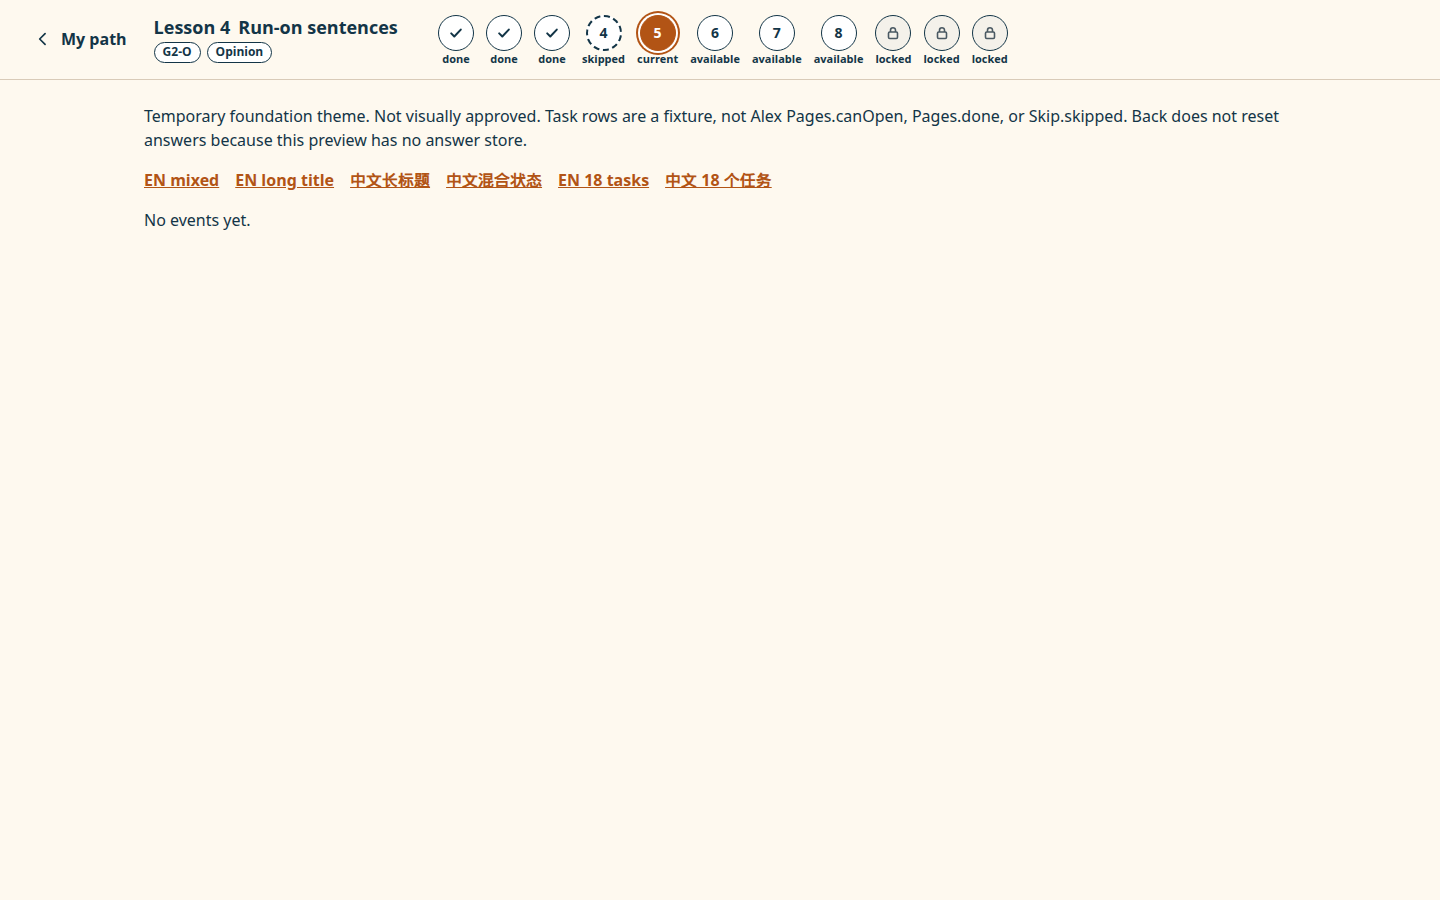
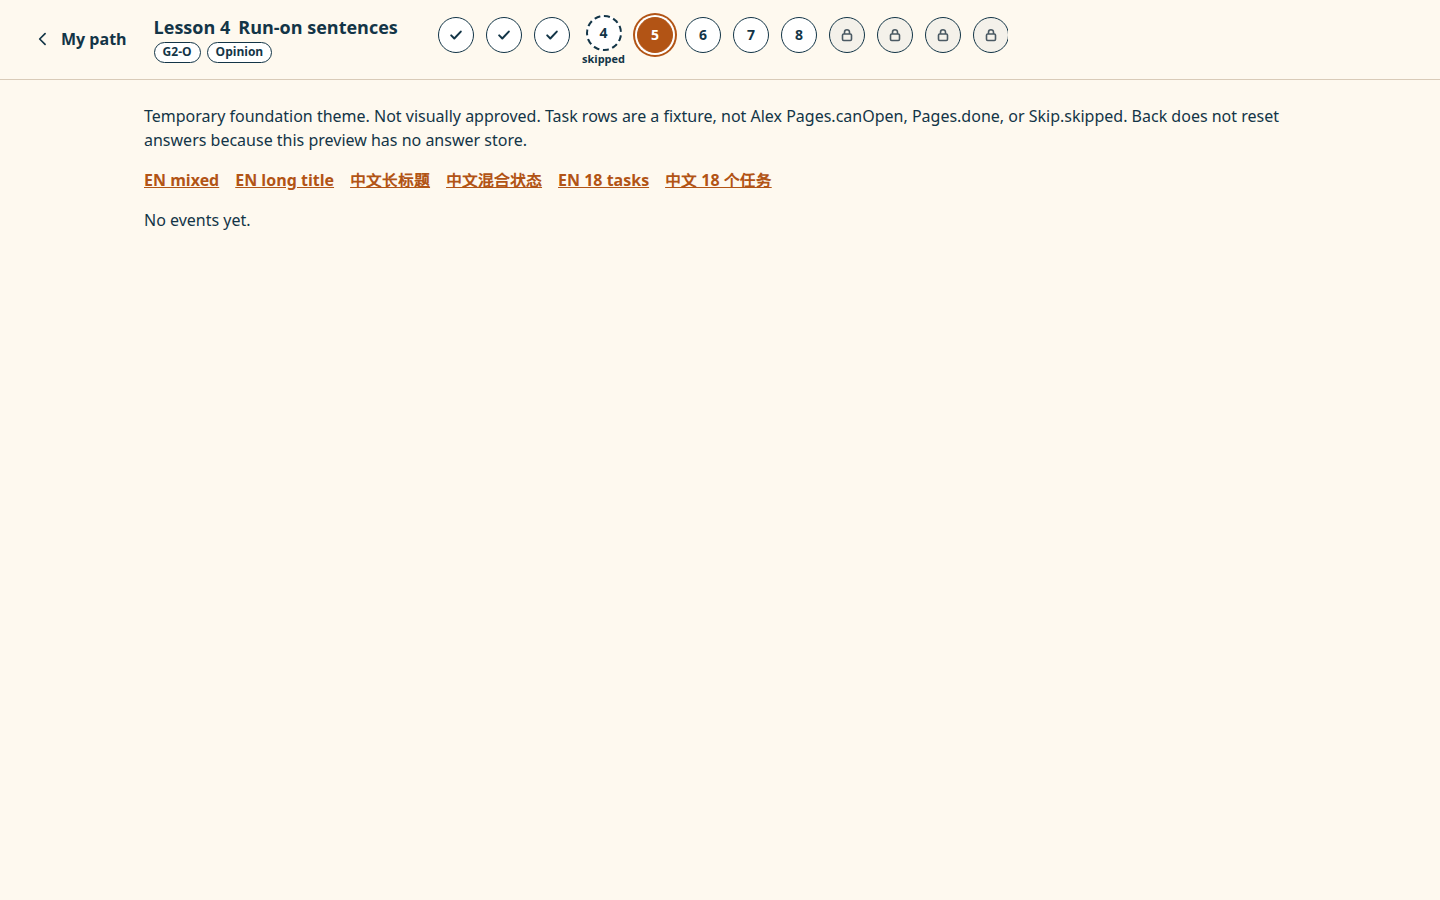
fix(writing): show a status caption on skipped chips only
Remove the word under done, current, available, and locked tasks so the centered progress group stays compact. Skipped keeps a dashed circle, its number, and skipped / 已跳过.

Changed region(s): [[0.4375, 0.0, 0.7188, 0.0933], [0.3125, 0.0311, 0.4062, 0.0933]]

diff --git a/packages/design-system/src/components/ui/BATaskProgress.test.tsx b/packages/design-system/src/components/ui/BATaskProgress.test.tsx
@@ -34,6 +34,11 @@ describe('BATaskProgress', () => {
     expect(screen.getByRole('button', { name: 'Task 4: Build a topic sentence, available' })).toBeEnabled();
     expect(screen.getByRole('button', { name: 'Task 5: Check, locked' })).toBeDisabled();
     expect(screen.getByRole('button', { name: /skipped/ })).not.toHaveAccessibleName(/done/);
+    expect(screen.getByText('skipped')).toBeVisible();
+    expect(screen.queryByText('done', { selector: '.ba-task-progress__caption' })).not.toBeInTheDocument();
+    expect(screen.queryByText('current', { selector: '.ba-task-progress__caption' })).not.toBeInTheDocument();
+    expect(screen.queryByText('available', { selector: '.ba-task-progress__caption' })).not.toBeInTheDocument();
+    expect(screen.queryByText('locked', { selector: '.ba-task-progress__caption' })).not.toBeInTheDocument();
   });
 
   it('names every state in Chinese', () => {
@@ -47,6 +52,11 @@ describe('BATaskProgress', () => {
       'step',
     );
     expect(screen.getByRole('button', { name: '任务 5：小测，未解锁' })).toBeDisabled();
+    expect(screen.getByText('已跳过')).toBeVisible();
+    expect(screen.queryByText('已完成', { selector: '.ba-task-progress__caption' })).not.toBeInTheDocument();
+    expect(screen.queryByText('当前', { selector: '.ba-task-progress__caption' })).not.toBeInTheDocument();
+    expect(screen.queryByText('可进入', { selector: '.ba-task-progress__caption' })).not.toBeInTheDocument();
+    expect(screen.queryByText('未解锁', { selector: '.ba-task-progress__caption' })).not.toBeInTheDocument();
   });
 
   it('navigates only when the row is not locked and canOpen allows it', async () => {

diff --git a/packages/design-system/src/components/ui/BATaskProgress.tsx b/packages/design-system/src/components/ui/BATaskProgress.tsx
@@ -85,9 +85,9 @@ export function BATaskProgress({
                   <span className="ba-task-progress__marker" aria-hidden="true">
                     <Marker status={task.status} number={number} />
                   </span>
-                  <span className="ba-task-progress__caption" aria-hidden="true">
-                    {statusWord}
-                  </span>
+                  {task.status === 'skipped' ? (
+                    <span className="ba-task-progress__caption">{statusWord}</span>
+                  ) : null}
                 </Button>
               </li>
             );

diff --git a/packages/design-system/src/components/ui/BATaskProgress.css b/packages/design-system/src/components/ui/BATaskProgress.css
@@ -69,11 +69,11 @@
 }
 
 .ba-task-progress__caption {
-  min-height: 13px;
   font-size: 11px;
   font-weight: 700;
   line-height: 1.1;
   letter-spacing: 0;
+  white-space: nowrap;
 }
 
 .ba-task-progress__button[data-state='done'] .ba-task-progress__marker {

diff --git a/apps/writing/docs/PILOT_RUNTIME.md b/apps/writing/docs/PILOT_RUNTIME.md
@@ -25,13 +25,15 @@ Progress group center versus the header center. Negative overlap means the left 
 
 | Viewport | Fixture | Center delta | Overlap | Back height | Task control height |
 |---|---|---:|---:|---:|---:|
-| 1440×900 | EN mixed | 0px | -128.13px | 44px | 55px |
-| 1440×900 | EN 18 tasks | 0px | -34.23px | 44px | 55px |
-| 1024×768 | EN long title | 0px | -61.98px | 44px | 55px |
-| 1024×768 | ZH mixed | 0px | -122.34px | 44px | 55px |
-| 834×1112 | ZH long title | 0px | -32.53px | 44px | 55px |
-| 834×1112 | EN 18 tasks | 0px | -16.02px | 44px | 55px |
-| 390×844 | ZH long title (smoke) | 0px | -16.02px | 44px | 55px |
+| 1440×900 | EN mixed | 0px | -144.55px | 44px | 44px |
+| 1440×900 | EN 18 tasks | 0px | -34.23px | 44px | 44px |
+| 1024×768 | EN long title | 0px | -78.40px | 44px | 44px |
+| 1024×768 | ZH mixed | 0px | -122.34px | 44px | 44px |
+| 834×1112 | ZH long title | 0px | -32.53px | 44px | 44px |
+| 834×1112 | EN 18 tasks | 0px | -16.02px | 44px | 44px |
+| 390×844 | ZH long title (smoke) | 0px | -16.02px | 44px | 44px |
+
+Task height is the first chip, which is done and has no caption. Skipped chips are taller because they keep the caption. Center delta stayed 0px after the caption change.
 
 Screenshots: `apps/writing/docs/evidence/*.png`. Raw numbers: `layout-metrics.json`.
 
@@ -42,17 +44,21 @@ At container widths below 1360px, lesson tags are clipped visually and remain in
 ## Tests covered
 
 - EN and ZH chrome, including a long Chinese lesson title with no second language rendered beside it.
-- Five task states: done, current, available, locked, skipped. Skipped is named and drawn separately from done.
+- Five task states: done, current, available, locked, skipped. Skipped is the only chip with a visible status word. The others expose state through the check, number, lock, or current fill and ring, plus the accessible name.
 - 18-task list, locked rows do not navigate, and an available row navigates only when `canOpen` returns true.
 - A done or current row whose `canOpen` returns false does not navigate. The component does not treat status as permission.
 - Keyboard: Tab, Enter, and Space on `BAButton`; Space on an open task; disabled locked task.
 - Registry status is `implemented` for BA-UI-001, BA-UI-006, and BA-WR-001, and `planned` for the other ten.
 
+## Designer review round
+
+Blocking change from the Temporary Foundation Theme review: status captions under every chip were removed. Only skipped keeps a visible caption. Layout screenshots below were recaptured after that change. Styles remain not Approved.
+
 ## Unresolved — do not treat this pilot as signed off
 
 1. **Not Alex course state.** `apps/writing/src/fixtures/topbarFixtures.ts` copies G2-O lesson-plan titles for realistic length. `canOpen` in that fixture only closes rows already marked `locked`. It does not call `Pages.canOpen`, `Pages.done`, or `Skip.skipped`. Indexes are lesson-local. A production adapter must map them to Alex's global screen index. No scoring, skip revocation, or answer store exists here, so Back cannot reset answers because there is nothing to reset.
 2. **Menu behavior is not re-homed.** The bar no longer has Index, Analytics, or the Menu drawer. Removing the control does not delete those product behaviors. They still need a home.
-3. **Visuals are a temporary foundation theme.** Warm surface `#FEF9EF` is still a DESIGN.md candidate. Interactive borders are 1px so default, focus, and disabled stay distinguishable; the approved 0.5px weight is used on the header separator only. Heights 80px / 76px follow the pilot brief and are not approved dimensions. Skipped shows the number, a dashed circle, and the word "skipped" / "已跳过" rather than Alex's check glyph, so it is not distinguished from done by color alone. The designer still needs to choose chips versus segments.
+3. **Visuals are a temporary foundation theme.** Designer review on 2026-10-19 confirmed numeric chips and a visible caption for skipped only: dashed circle, number, and "skipped" / "已跳过". Done, current, available, and locked do not show a status word under the chip. This is still not Approved. Formal Warm Frame follow-ups, not blockers for this round: prefer 0.5px ordinary borders and keep the 2px focus ring; 80px / 76px heights and `#FEF9EF` stay candidates; tag choice and fonts stay unlocked. "Task" versus "Page" copy is left to product.
 4. **Copy gap.** This pilot says "Task" / "任务". Alex `Shell.step` says "Page".
 5. **Fonts are not bundled.** The stack asks for Noto Sans / Noto Sans SC, then WenQuanYi Micro Hei, PingFang, and Microsoft YaHei. Dosis, Jost, and Douyin Sans are not shipped.
 6. **Canonical Skill v0.2 is not in this repo.** `skills/README.md` still says to import it.
